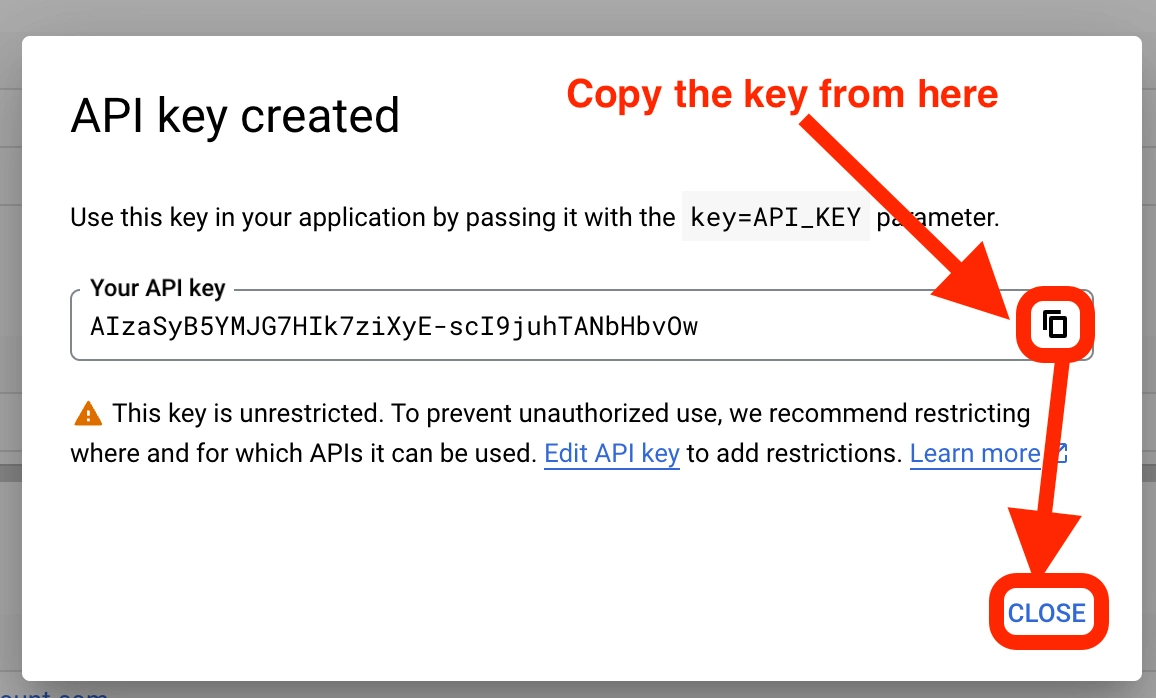
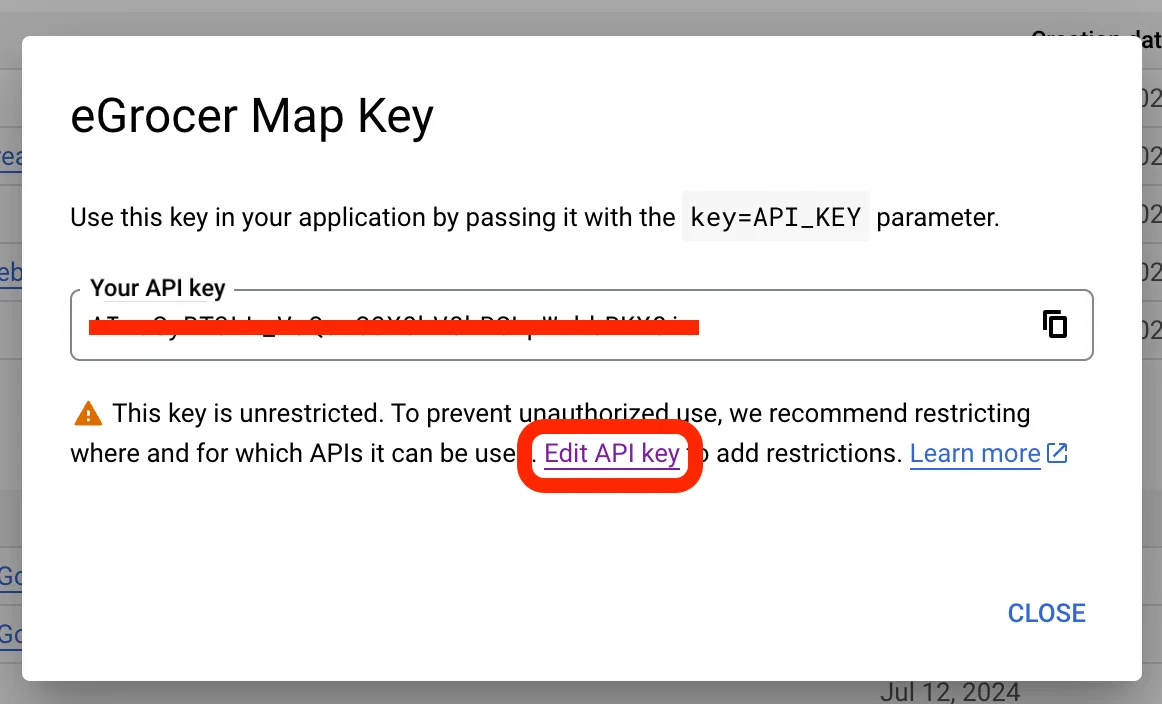
Change documentation map api key steps

diff --git a/flutter-app/index.html b/flutter-app/index.html
@@ -911,6 +911,8 @@
 								<img src="images/map-api-key-12.webp" alt="eGrocer" /><br><br>
 								<li></li>
 								<img src="images/map-api-key-13.webp" alt="eGrocer" /><br><br>
+								<li></li>
+								<img src="images/map-api-key-14.webp" alt="eGrocer" /><br><br>
 							</ol>
 							<div class="section_bdr"></div>
 						</div>
